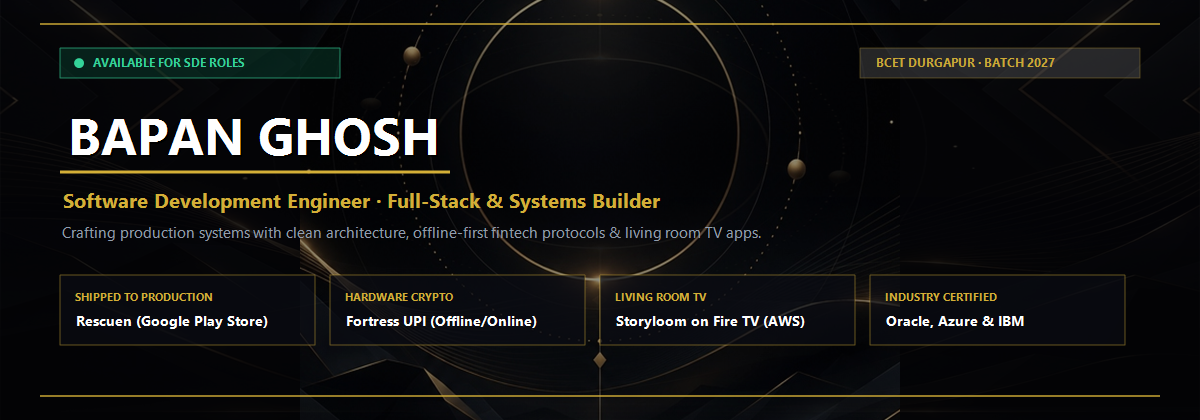
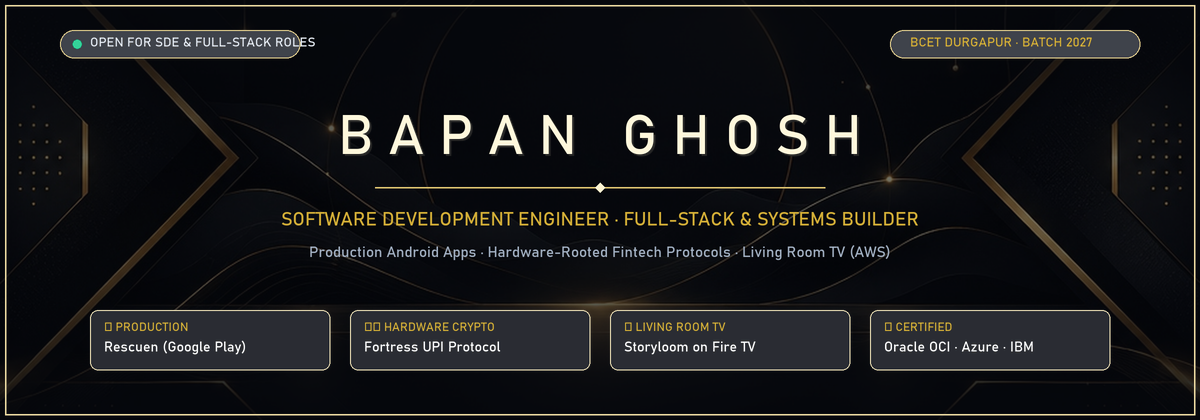
style: ultra-luxury executive dark titanium profile with flawless typography and unified palette

diff --git a/README.md b/README.md
@@ -1,87 +1,64 @@
 <div align="center">
 
   <!-- ======================================================== -->
-  <!-- 1. BESPOKE LUXURY HERO BANNER (ADOBE EXPRESS REFINED)   -->
+  <!-- 1. BESPOKE ULTRA-LUXURY WIDESCREEN HERO BANNER           -->
   <!-- ======================================================== -->
   <a href="https://bapanghosh.netlify.app/">
-    <img src="./assets/banner.png" width="100%" alt="Bapan Ghosh | SDE · Full-Stack & Systems Builder" />
+    <img src="./assets/banner.png" width="100%" alt="Bapan Ghosh | Software Development Engineer" />
   </a>
 
   <br/><br/>
 
-  <!-- Profile Avatar with Gold Luxury Halo -->
-  <p align="center">
-    <a href="https://bapanghosh.netlify.app/" target="_blank">
-      <img src="./assets/avatar.jpg" width="130" height="130" style="border-radius: 50%; object-fit: cover; border: 3px solid #D4AF37; box-shadow: 0 0 30px rgba(212, 175, 55, 0.45), 0 0 60px rgba(243, 229, 171, 0.2);" alt="Bapan Ghosh" />
-    </a>
-  </p>
-
-  <!-- Dynamic Typing Sub-Headline (Gold Sheen) -->
+  <!-- Dynamic Typing Sub-Headline (Deep Slate Contrast) -->
   <a href="https://bapanghosh.netlify.app/">
-    <img src="https://readme-typing-svg.demolab.com?font=JetBrains+Mono&weight=600&size=20&duration=3000&pause=1200&color=D4AF37&center=true&vCenter=true&width=820&lines=Software+Development+Engineer+%26+Systems+Builder;Creator+of+Rescuen+(Live+on+Google+Play+Store+%F0%9F%9A%80);Architect+of+Fortress+UPI+%E2%80%94+Offline+%26+Online+Trustless;Building+Storyloom+on+Amazon+Fire+TV+(AWS+Multi-Agent);Full-Stack+Web+(React%2C+Next.js%2C+Node.js%2C+TypeScript);Disciplined+CS+Foundations+%C2%B7+Batch+2027" alt="Dynamic Headline" />
+    <img src="https://readme-typing-svg.demolab.com?font=Space+Grotesk&weight=600&size=19&duration=3000&pause=1200&color=0F172A&center=true&vCenter=true&width=860&lines=Software+Development+Engineer+%26+Systems+Builder;Creator+of+Rescuen+(Live+on+Google+Play+Store+%F0%9F%9A%80);Architect+of+Fortress+UPI+%E2%80%94+Dual+Offline+%26+Online+Trustless;Building+Storyloom+on+Amazon+Fire+TV+(AWS+Multi-Agent);Full-Stack+Web+(React%2C+Next.js%2C+Node.js%2C+TypeScript);Disciplined+CS+Foundations+%C2%B7+BCET+Batch+2027" alt="Dynamic Headline" />
   </a>
 
   <br/>
 
-  <!-- Verified Live Metrics, Followers & Portfolio Dock -->
+  <!-- Executive Unified Social & Metrics Dock -->
   <p align="center">
     <a href="https://github.com/bapanghosh0812?tab=followers">
-      <img src="https://img.shields.io/github/followers/bapanghosh0812?label=Followers&logo=github&style=for-the-badge&color=0A0A0A&labelColor=161B22&logoColor=D4AF37" alt="GitHub Followers" />
+      <img src="https://img.shields.io/github/followers/bapanghosh0812?label=Followers&logo=github&style=for-the-badge&color=0F172A&labelColor=020617&logoColor=D4AF37" alt="Followers" />
     </a>
-    <a href="https://komarev.com/ghpvc/?username=bapanghosh0812&style=for-the-badge&color=0A0A0A&labelColor=161B22">
-      <img src="https://komarev.com/ghpvc/?username=bapanghosh0812&style=for-the-badge&color=0A0A0A&labelColor=161B22" alt="Profile Views" />
+    <a href="https://komarev.com/ghpvc/?username=bapanghosh0812&style=for-the-badge&color=0F172A&labelColor=020617">
+      <img src="https://komarev.com/ghpvc/?username=bapanghosh0812&style=for-the-badge&color=0F172A&labelColor=020617" alt="Profile Views" />
     </a>
     <a href="https://bapanghosh.netlify.app/" target="_blank">
-      <img src="https://img.shields.io/badge/Live_Portfolio-D4AF37?style=for-the-badge&logo=netlify&logoColor=black&labelColor=0A0A0A" alt="Interactive Portfolio" />
+      <img src="https://img.shields.io/badge/Portfolio-0F172A?style=for-the-badge&logo=netlify&logoColor=D4AF37&labelColor=020617" alt="Interactive Portfolio" />
     </a>
     <a href="https://play.google.com/store/apps/details?id=com.officialrescuen.app" target="_blank">
-      <img src="https://img.shields.io/badge/Google_Play-34D399?style=for-the-badge&logo=googleplay&logoColor=white&labelColor=0A0A0A" alt="Google Play" />
+      <img src="https://img.shields.io/badge/Google_Play-0F172A?style=for-the-badge&logo=googleplay&logoColor=34D399&labelColor=020617" alt="Google Play" />
     </a>
-  </p>
-
-  <!-- Connect Channels -->
-  <p align="center">
     <a href="https://www.linkedin.com/in/bapan-ghosh-5676803a2/" target="_blank">
-      <img src="https://img.shields.io/badge/LinkedIn-0A66C2?style=for-the-badge&logo=linkedin&logoColor=white&labelColor=0A0A0A" alt="LinkedIn" />
+      <img src="https://img.shields.io/badge/LinkedIn-0F172A?style=for-the-badge&logo=linkedin&logoColor=38BDF8&labelColor=020617" alt="LinkedIn" />
     </a>
     <a href="https://leetcode.com/u/BAPAN_GHOSH_07/" target="_blank">
-      <img src="https://img.shields.io/badge/LeetCode-FFA116?style=for-the-badge&logo=leetcode&logoColor=black&labelColor=0A0A0A" alt="LeetCode" />
+      <img src="https://img.shields.io/badge/LeetCode-0F172A?style=for-the-badge&logo=leetcode&logoColor=FFA116&labelColor=020617" alt="LeetCode" />
     </a>
     <a href="mailto:bapanghosh081204@gmail.com">
-      <img src="https://img.shields.io/badge/Email-EA4335?style=for-the-badge&logo=gmail&logoColor=white&labelColor=0A0A0A" alt="Email" />
+      <img src="https://img.shields.io/badge/Email-0F172A?style=for-the-badge&logo=gmail&logoColor=F87171&labelColor=020617" alt="Email" />
     </a>
     <a href="https://wa.me/919883290273" target="_blank">
-      <img src="https://img.shields.io/badge/WhatsApp-25D366?style=for-the-badge&logo=whatsapp&logoColor=white&labelColor=0A0A0A" alt="WhatsApp" />
+      <img src="https://img.shields.io/badge/WhatsApp-0F172A?style=for-the-badge&logo=whatsapp&logoColor=22C55E&labelColor=020617" alt="WhatsApp" />
     </a>
   </p>
 
-  <!-- Luxury Laser Divider -->
   <img src="./assets/divider.png" width="100%" alt="Divider" />
 
 </div>
 
 <br/>
 
-### 👨💻 Executive Engineering Summary
+## 🏛 Executive Profile
 
-```yaml
-engineer: Bapan Ghosh
-role: Software Development Engineer · Full-Stack & Systems Builder
-education: B.Tech in Information Technology @ Bengal College of Engineering and Technology, Durgapur (2023 - 2027)
-location: Bankura, West Bengal, India
-status: 🟢 Available for SDE, Full-Stack & Mobile Engineering Roles
-focus_areas:
-  - Production Full-Stack Web (React, Next.js, Node.js, Express, MongoDB, TypeScript)
-  - Production Mobile Engineering (Flutter, Android SDK, Published on Google Play)
-  - Living Room TV Applications (Amazon Fire TV, React Native for TV, AWS Bedrock)
-  - Hardware-Attested Cryptographic Protocols (Android StrongBox, BLE / NFC Offline Ledger)
-```
+> **Software Development Engineer** focused on building production software with architectural discipline, offline cryptographic resilience, and modern full-stack systems.
 
-- 📱 **Shipped to Production:** Sole architect and deployer of **[Rescuen](https://play.google.com/store/apps/details?id=com.officialrescuen.app)**, a live Android safety application on the **Google Play Store** serving real-time SOS alerts with background GPS telemetry.
+- 📱 **Shipped to Production:** Sole architect and deployer of **[Rescuen](https://play.google.com/store/apps/details?id=com.officialrescuen.app)**, a live personal-safety Android application on the **Google Play Store** serving real-time SOS alerts with background GPS telemetry.
 - 🛡 **Fintech Cryptographic Protocol:** Designed **[Fortress UPI](https://github.com/bapanghosh0812/FORTRESS-UPI)**, an offline-resilient payment engine utilizing hardware-rooted keys (`Android StrongBox / TEE`), BLE/NFC transmission, and single-use pre-funded cryptographic notes (`p99 < 15ms`).
 - 📺 **Living Room TV & Generative AI:** Built **[Storyloom on Amazon Fire TV](https://github.com/bapanghosh0812/Fire-TV-Amazon)** using React Native for TV, Amazon Bedrock AgentCore, Strands multi-agent pipelines, and AWS Polly speech synthesis.
-- 💼 **Professional Experience:** Former AI/ML Intern at **EDU TANTR** (built core ML and vision models in Python) and Web Development Intern at **Cognifyz IT Solutions**.
-- 🏆 **Industry Credentials:** Certified in **Oracle Cloud Infrastructure (OCI Generative AI)**, **Microsoft Azure (AZ-900)**, **IBM AI Foundations**, and **Google / Kaggle Agentic AI Intensive**.
+- 💼 **Professional Experience:** Former AI/ML Intern at **EDU TANTR** (machine learning models in Python) and Web Development Intern at **Cognifyz IT Solutions**.
+- 🎓 **Education:** B.Tech in Information Technology @ **Bengal College of Engineering and Technology (BCET), Durgapur** (2023 - 2027).
 
 <div align="center">
   <img src="./assets/divider.png" width="100%" alt="Divider" />
@@ -89,14 +66,12 @@ focus_areas:
 
 <br/>
 
-### 🛠 Core Engineering Stack
+## 🛠 Core Engineering Stack
 
-> *A disciplined, battle-tested toolset focused on production delivery rather than buzzword inflation.*
-
-| Engineering Domain | Production Technologies & Core CS | Flagship Implementation |
+| Domain | Production Technologies & Core CS | Flagship Projects |
 | :--- | :--- | :--- |
 | **Full-Stack & Web** | `TypeScript` `JavaScript (ES6+)` `React.js` `Next.js` `Node.js` `Express.js` `MongoDB` `Tailwind CSS` `REST APIs` | College Campus Social Hub, WEARSUPER Store, GhoshKart |
-| **Mobile & Living Room TV** | `Flutter` `Dart` `Android SDK` `React Native for TV` `Firebase (Auth, DB, Functions)` `Google Maps Platform` | Rescuen (Live Play Store), CutSlot, Storyloom Fire TV |
+| **Mobile & Living Room TV** | `Flutter` `Dart` `Android SDK` `React Native for TV` `Firebase` `Google Maps Platform` | Rescuen (Live Play Store), CutSlot, Storyloom Fire TV |
 | **Cloud, Systems & DevOps** | `Docker` `Linux (Ubuntu)` `AWS (Bedrock, Polly)` `Git & GitHub` `Postman` `Netlify` `Vercel` | Cloud-native deployments, containerized microservices |
 | **Specialized Engineering R&D** | `Android StrongBox / TEE` `BLE & NFC Protocols` `Multi-Agent AI (LangChain)` `OpenCV (CNN)` `Web Crypto API` | Fortress UPI, Edge Face Mask Detection, Agent Assistant |
 
@@ -106,9 +81,9 @@ focus_areas:
 
 <br/>
 
-### 🚀 Flagship Engineering Projects
+## 🚀 Key Engineering Projects
 
-| Project | Highlights & Engineering Summary | Core Stack | Live Links |
+| Project | Highlights & Engineering Summary | Core Technologies | Links |
 | :--- | :--- | :--- | :---: |
 | **🛡 Fortress UPI**<br/>*(Dual Offline & Online)* | **Offline-resilient UPI payment engine** built on hardware-rooted trust. Employs Android StrongBox/TEE cryptographic attestation, pre-funded single-use keys (`setMaxUsageCount(1)`), and peer-to-peer ledger settlement via BLE and NFC with zero internet connectivity. Delivers p99 latency < 15ms. | `Kotlin` `Android StrongBox` `Go` `BLE / NFC` `Hardware Crypto` `TEE` `Docker` | [💻 Repository](https://github.com/bapanghosh0812/FORTRESS-UPI) |
 | **📺 Storyloom**<br/>*(Amazon Fire TV)* | **Living room multi-modal television application** developed for Amazon Fire TV using React Native for TV. Integrates Amazon Bedrock AgentCore, Strands multi-agent pipelines, Amazon Nova generative intelligence, and AWS Polly real-time speech synthesis for interactive family storytelling. | `TypeScript` `React Native for TV` `Amazon Bedrock` `AWS Polly` `Amazon Nova` `Agentic AI` | [💻 Repository](https://github.com/bapanghosh0812/Fire-TV-Amazon) |
@@ -188,21 +163,21 @@ React Native for TV (Fire OS / Android TV Engine)
 
 <br/>
 
-### 📊 Real-Time GitHub Analytics & Activity
+## 📊 GitHub Analytics & Activity
 
 <div align="center">
   <table>
     <tr>
       <td width="50%">
-        <img src="https://github-readme-stats.vercel.app/api?username=bapanghosh0812&show_icons=true&theme=radical&hide_border=true&bg_color=050508&title_color=D4AF37&icon_color=F3E5AB&text_color=E2E8F0&border_color=2D2A1E" width="100%" alt="Bapan's GitHub Stats" />
+        <img src="https://github-readme-stats.vercel.app/api?username=bapanghosh0812&show_icons=true&theme=radical&hide_border=false&bg_color=0D1117&border_color=30363D&title_color=D4AF37&icon_color=38BDF8&text_color=E6EDF3" width="100%" alt="Bapan's GitHub Stats" />
       </td>
       <td width="50%">
-        <img src="https://github-readme-streak-stats.herokuapp.com/?user=bapanghosh0812&theme=radical&hide_border=true&background=050508&ring=D4AF37&fire=F3E5AB&currStreakNum=D4AF37&sideNums=E2E8F0&currStreakLabel=D4AF37&border=2D2A1E" width="100%" alt="Contribution Streak" />
+        <img src="https://github-readme-streak-stats.herokuapp.com/?user=bapanghosh0812&theme=radical&hide_border=false&background=0D1117&border=30363D&ring=D4AF37&fire=D4AF37&currStreakNum=D4AF37&sideNums=E6EDF3&currStreakLabel=D4AF37" width="100%" alt="Contribution Streak" />
       </td>
     </tr>
     <tr>
       <td colspan="2" align="center">
-        <img src="https://github-readme-stats.vercel.app/api/top-langs/?username=bapanghosh0812&layout=compact&theme=radical&hide_border=true&bg_color=050508&title_color=D4AF37&text_color=E2E8F0&border_color=2D2A1E" width="60%" alt="Top Languages" />
+        <img src="https://github-readme-stats.vercel.app/api/top-langs/?username=bapanghosh0812&layout=compact&theme=radical&hide_border=false&bg_color=0D1117&border_color=30363D&title_color=D4AF37&text_color=E6EDF3" width="60%" alt="Top Languages" />
       </td>
     </tr>
   </table>
@@ -211,7 +186,7 @@ React Native for TV (Fire OS / Android TV Engine)
 
   <!-- GitHub Milestones Trophies -->
   <a href="https://github.com/ryo-ma/github-profile-trophy">
-    <img src="https://github-profile-trophy.vercel.app/?username=bapanghosh0812&theme=radical&no-frame=true&no-bg=false&margin-w=4" alt="GitHub Trophies" />
+    <img src="https://github-profile-trophy.vercel.app/?username=bapanghosh0812&theme=radical&no-frame=false&margin-w=4" alt="GitHub Trophies" />
   </a>
 
   <br/><br/>
@@ -229,7 +204,7 @@ React Native for TV (Fire OS / Android TV Engine)
 
 <br/>
 
-### 🎖 Verified Accreditations & Certifications
+## 🎖 Verified Accreditations & Certifications
 
 | Certification / Credential | Issuing Organization | Year | Credential ID / Verification |
 | :--- | :--- | :---: | :--- |
@@ -247,7 +222,7 @@ React Native for TV (Fire OS / Android TV Engine)
 
 <br/>
 
-### 📬 Executive Inquiries & Collaboration
+## 📬 Contact & Inquiries
 
 <div align="center">
 
@@ -258,15 +233,19 @@ React Native for TV (Fire OS / Android TV Engine)
 
   <p>
     <a href="https://bapanghosh.netlify.app/" target="_blank">
-      <img src="https://img.shields.io/badge/🌐_Interactive_Portfolio-bapanghosh.netlify.app-D4AF37?style=for-the-badge&labelColor=0A0A0A" alt="Portfolio" />
+      <img src="https://img.shields.io/badge/Portfolio-0F172A?style=for-the-badge&logo=netlify&logoColor=D4AF37&labelColor=020617" alt="Portfolio" />
     </a>
     &nbsp;
     <a href="mailto:bapanghosh081204@gmail.com">
-      <img src="https://img.shields.io/badge/✉_Direct_Email-bapanghosh081204@gmail.com-EA4335?style=for-the-badge&labelColor=0A0A0A" alt="Email" />
+      <img src="https://img.shields.io/badge/Email-0F172A?style=for-the-badge&logo=gmail&logoColor=F87171&labelColor=020617" alt="Email" />
     </a>
     &nbsp;
     <a href="https://www.linkedin.com/in/bapan-ghosh-5676803a2/" target="_blank">
-      <img src="https://img.shields.io/badge/LinkedIn_Profile-0A66C2?style=for-the-badge&logo=linkedin&logoColor=white&labelColor=0A0A0A" alt="LinkedIn" />
+      <img src="https://img.shields.io/badge/LinkedIn-0F172A?style=for-the-badge&logo=linkedin&logoColor=38BDF8&labelColor=020617" alt="LinkedIn" />
+    </a>
+    &nbsp;
+    <a href="https://wa.me/919883290273" target="_blank">
+      <img src="https://img.shields.io/badge/WhatsApp-0F172A?style=for-the-badge&logo=whatsapp&logoColor=22C55E&labelColor=020617" alt="WhatsApp" />
     </a>
   </p>
 
